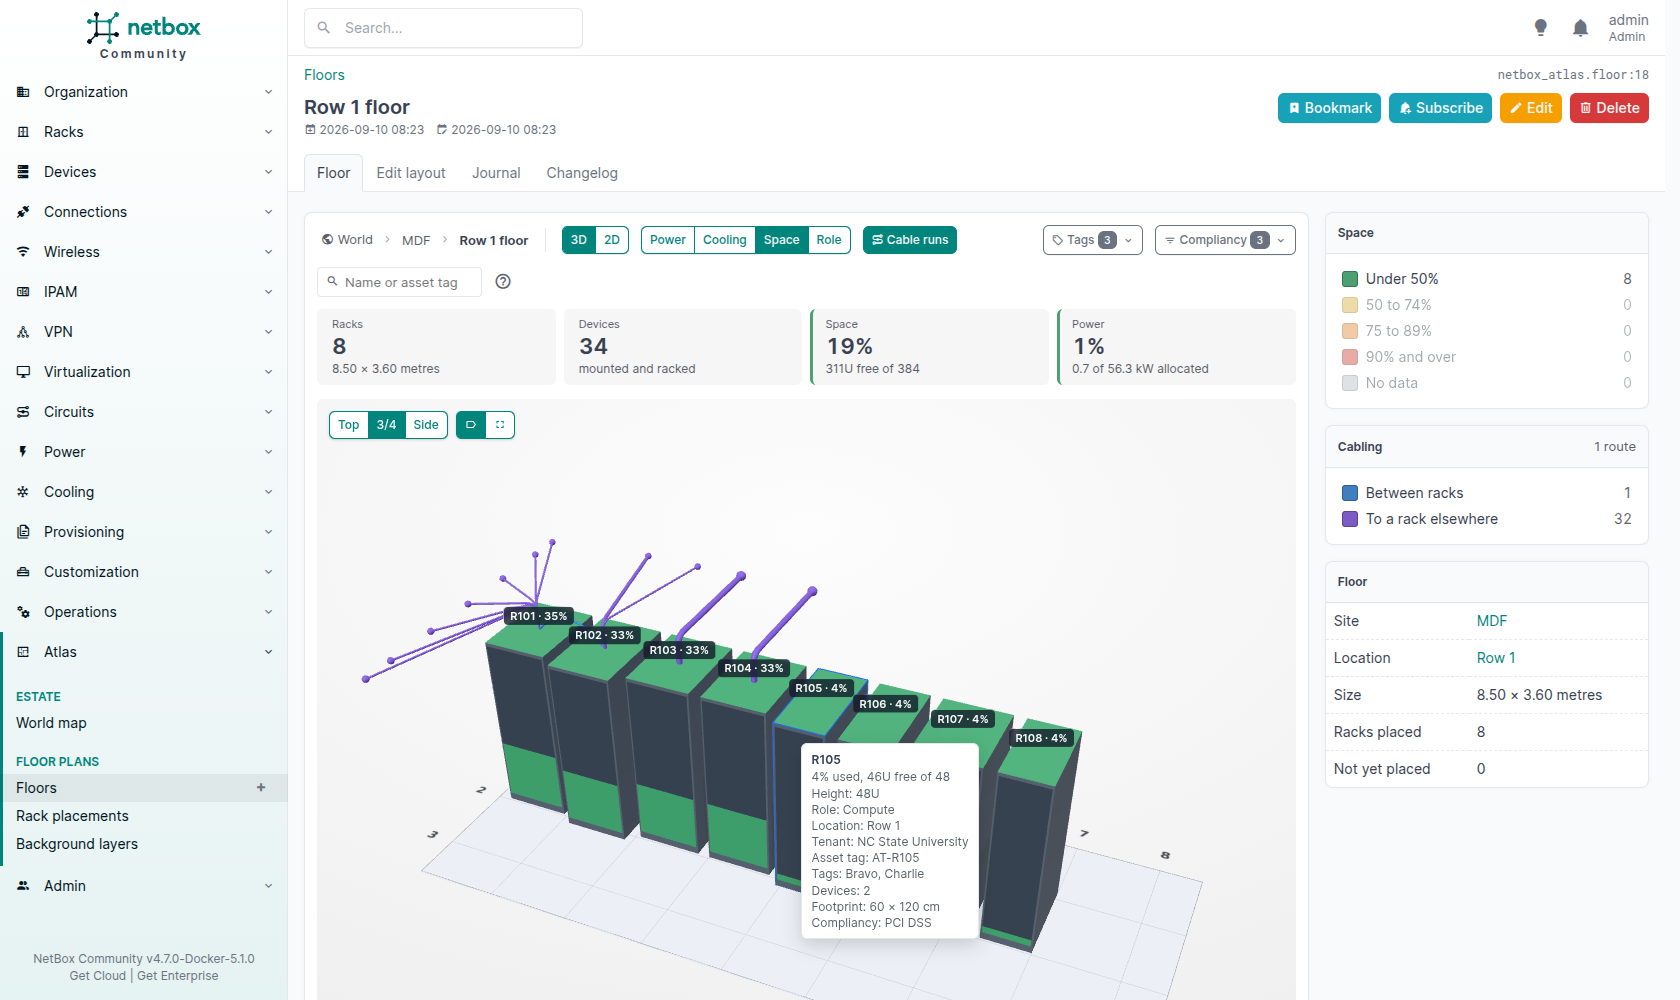
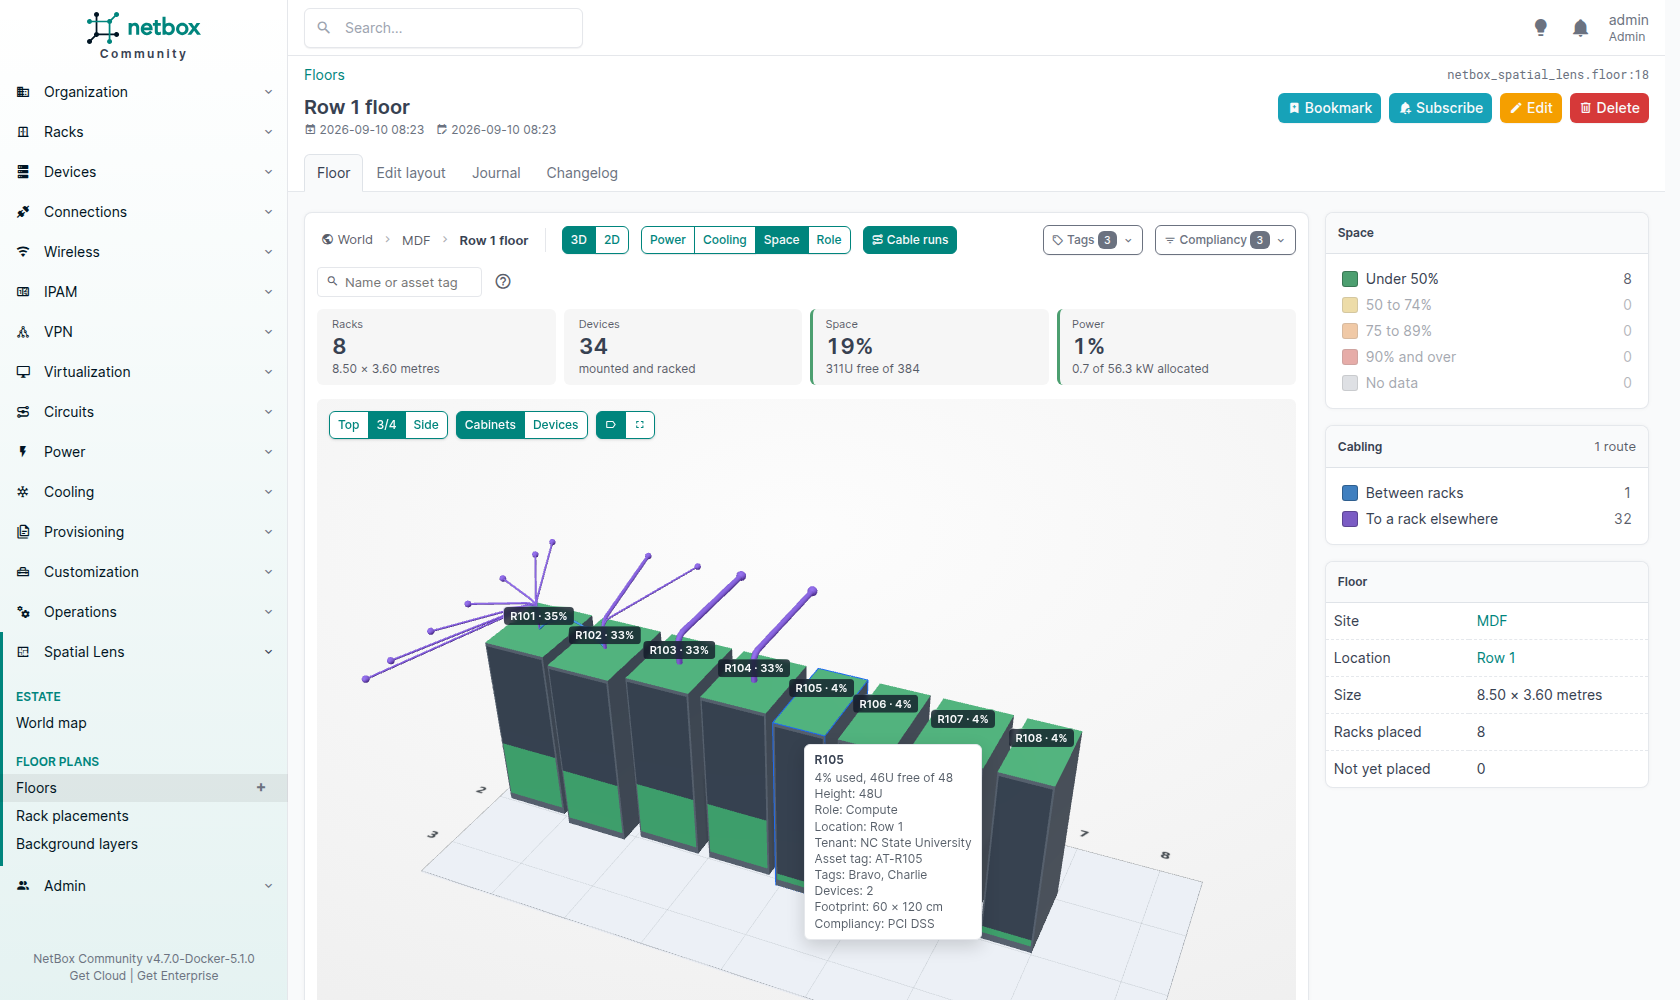
retake the doc captures under the new name and fix the development docs

diff --git a/netbox_spatial_lens/templates/netbox_spatial_lens/site.html b/netbox_spatial_lens/templates/netbox_spatial_lens/site.html
@@ -13,9 +13,9 @@
 {% comment %}
 The rooms in a site, as plans rather than as a list of names.
 
-This is the contents page of the site: which rooms this site has, how full
-each one is, and a way into each. A site with one room is a page with one plan on it, which is
-the cost of never telling a site with four rooms that it has one.
+This is the contents page of the site: which rooms it has, how full each one is, and a way into
+each. A site with one room is a page with one plan on it, which is the cost of never telling a
+site with four rooms that it has one.
 {% endcomment %}
 <div class="card lens-card--drawing">
   <div class="card-body">

diff --git a/docs/development.md b/docs/development.md
@@ -19,6 +19,7 @@ make demo-data   # drop the database and load netbox-demo-data, then migrate
 make static      # collect the plugin's CSS and JS
 make enrich      # fill in the fields the demo data leaves blank
 make autoplace   # create a floor per site and lay its racks out in rows
+make enrich      # again, to draw a plan under each floor autoplace created
 make test        # run the test suite
 ```
 
@@ -43,15 +44,20 @@ Fills in the fields this plugin draws with, and **never overwrites a value that 
 | `--fill` | Mounts devices in racks that stand empty |
 | `--cable` | Cables and powers the devices `--fill` mounted |
 | `--circuits` | Circuits between sites, so the map has links |
+| `--europe` | European sites and transatlantic circuits, for a worldwide map |
+| `--uplinks` | A cable from each rack's top-of-rack switch to a pair of spines in other racks |
+| `--plans` | A schematic architect drawing under each floor, so the background-layer feature has something to show |
+| `--all` | Everything above, the same as no flag |
+| `--seed` | The random seed, so a run repeats (default: `1`) |
 
-It also puts a schematic architect drawing under each floor, so the background-layer feature has something to show.
+`--plans` draws only under floors that already exist, so run the command again after `lens_autoplace` creates them.
 
 ### `lens_autoplace`
 
 Creates a floor per site and lays its unplaced racks out in rows.
 
 > [!CAUTION]
-> This is a bootstrap aid for a demo or development database. **Do not run it against a production NetBox.** It invents a room that does not exist: a 30x20 m hall, racks in tidy rows, and no relationship to the building. A floor plan whose whole value is that it matches the real room is worth nothing when it was generated, and once the racks are placed nobody can tell which positions were measured and which were guessed. Draw the real room instead: the README's [Your first floor](../README.md#your-first-floor) is three steps.
+> This is a bootstrap aid for a demo or development database. **Do not run it against a production NetBox.** It invents a room that does not exist: racks in tidy rows, a room sized to fit them, and no relationship to the building. A floor plan whose whole value is that it matches the real room is worth nothing when it was generated, and once the racks are placed nobody can tell which positions were measured and which were guessed. Draw the real room instead: the README's [Your first floor](../README.md#your-first-floor) is three steps.
 
 It never moves a rack somebody has already placed, unless you pass `--replace`.
 

diff --git a/docs/modules.md b/docs/modules.md
@@ -16,6 +16,7 @@ What each part of the plugin holds. The Python modules are under `netbox_spatial
 | `tags` | The tags in use on a floor or in a rack, for the Tags finder |
 | `field_filters` | Custom fields offered as filters, the way tags are |
 | `geometry` | Footprints, the scale, and the one type size a drawing gets |
+| `templatetags/lens` | Static URLs that change whenever the file does, the palette as CSS variables, and the 3D pages' import map |
 | `legend.js` | Picking bands, shared by all three levels |
 | `finder.js` | Searching and ticking a long list, shared by the map and the rack |
 | `state.js` | What a drawing is narrowed to, kept in the URL hash |
@@ -28,5 +29,6 @@ What each part of the plugin holds. The Python modules are under `netbox_spatial
 | `rack_panel.js` | The column beside the rack: port allocation, cabling, reservations and the traced path |
 | `world.js` | The MapLibre globe, and the message shown when it cannot be drawn |
 | `editor.js` | Dragging and saving a placement |
+| `lens.css` | The styles of every page, drawn from the palette's CSS variables |
 
 To add a colouring from another plugin, or to read a floor through the REST API, see [extending.md](extending.md).

diff --git a/dev/README.md b/dev/README.md
@@ -40,6 +40,7 @@ make demo-data   # drop the database, load netbox-demo-data, migrate (destroys t
 make static      # collect the plugin CSS and JS
 make enrich      # fill in footprints, coordinates, cabling and circuits the demo data lacks
 make autoplace   # create a floor per site and lay the racks out in rows
+make enrich      # again, to draw a plan under each floor autoplace created
 ```
 
 Open http://localhost:8890 and sign in as `admin` / `admin`.
